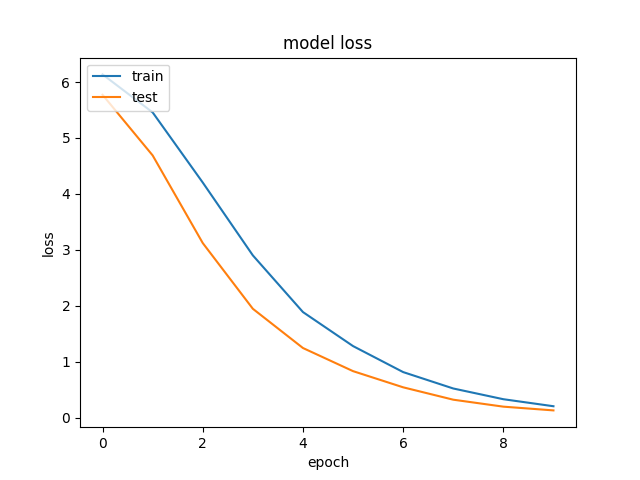
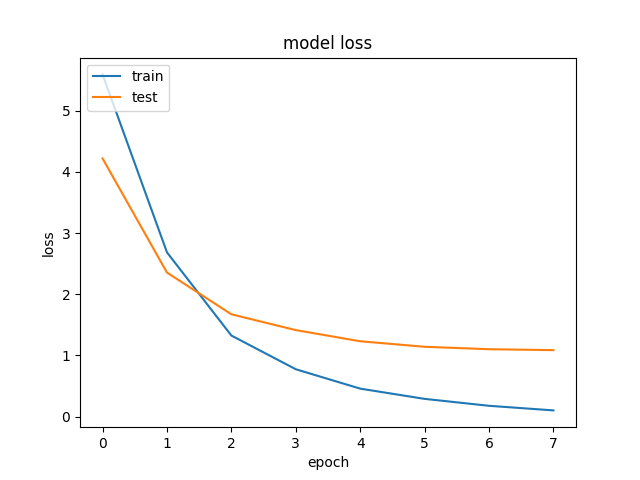
Fixed samples and evalluation

diff --git a/main.py b/main.py
@@ -37,17 +37,26 @@ image_df = image_df.dropna(axis=0)  #
 # print(image_df)                                                                             #
 ###############################################################################################
 
+samples = []
+
+for category in image_df['Label'].unique():
+    category_slice = image_df.query("Label == @category")
+    samples.append(category_slice.sample(20, random_state=1, replace=True))
+
+image_df = pd.concat(samples, axis=0).sample(frac=1.0, random_state=1).reset_index(drop=True)
+print(image_df)
+
 # We may look at the numbers for each species
 print(image_df['Label'].value_counts())
 
 # Create the train and test set
-train_df, test_df = train_test_split(image_df, train_size=0.7, shuffle=True, random_state=1)
+train_df, test_df = train_test_split(image_df, train_size=0.7, shuffle=True, random_state=3)
 
 # This process helps us to not run out of memory, loading an image per time
 # This is responsible for image augmentation
 train_generator = tf.keras.preprocessing.image.ImageDataGenerator(
     preprocessing_function=tf.keras.applications.mobilenet_v2.preprocess_input,
-    validation_split=0.3
+    validation_split=0.2
 )
 
 test_generator = tf.keras.preprocessing.image.ImageDataGenerator(
@@ -86,7 +95,7 @@ test_images = test_generator.flow_from_dataframe(
     y_col='Label',
     target_size=(224, 224),
     color_mode='rgb',
-    class_mode=None,
+    class_mode='categorical',
     batch_size=32,
     shuffle=False
 )
@@ -107,7 +116,7 @@ inputs = pretrained_model.input
 x = tf.keras.layers.Dense(128, activation='relu')(pretrained_model.output)
 x = tf.keras.layers.Dense(128, activation='relu')(x)
 
-outputs = tf.keras.layers.Dense(477, activation='softmax')(x)
+outputs = tf.keras.layers.Dense(479, activation='softmax')(x)
 
 model = tf.keras.Model(inputs=inputs, outputs=outputs)
 
@@ -121,8 +130,8 @@ model.compile(
 print("I'm fitting...\n")
 history = model.fit(
     train_images,
-    validation_data=train_images,
-    epochs=10,
+    validation_data=val_images,
+    epochs=8,
     callbacks=[
         tf.keras.callbacks.EarlyStopping(
             monitor='val_loss',
@@ -132,13 +141,7 @@ history = model.fit(
     ]
 )
 
-print("Im evaluating...\n")
-
-result = model.evaluate(val_images)
-print(result)
-print("    Test loss: {:.5f}".format(result[0]))
-print("Test accuracy: {:.2f}%".format(result[1] * 100))
-
+print("I'm plotting...\n")
 plt.plot(history.history['accuracy'])
 plt.plot(history.history['val_accuracy'])
 plt.title('model accuracy')
@@ -156,6 +159,12 @@ plt.xlabel('epoch')
 plt.legend(['train', 'test'], loc='upper left')
 plt.savefig('plots/model_loss.png')
 plt.show()
+
+print("Im evaluating...\n")
+
+result = model.evaluate(test_images, verbose=0)
+print("    Test loss: {:.5f}".format(result[0]))
+print("Test accuracy: {:.2f}%".format(result[1] * 100))
 
 test_images.reset()
 pred = model.predict(test_images,
